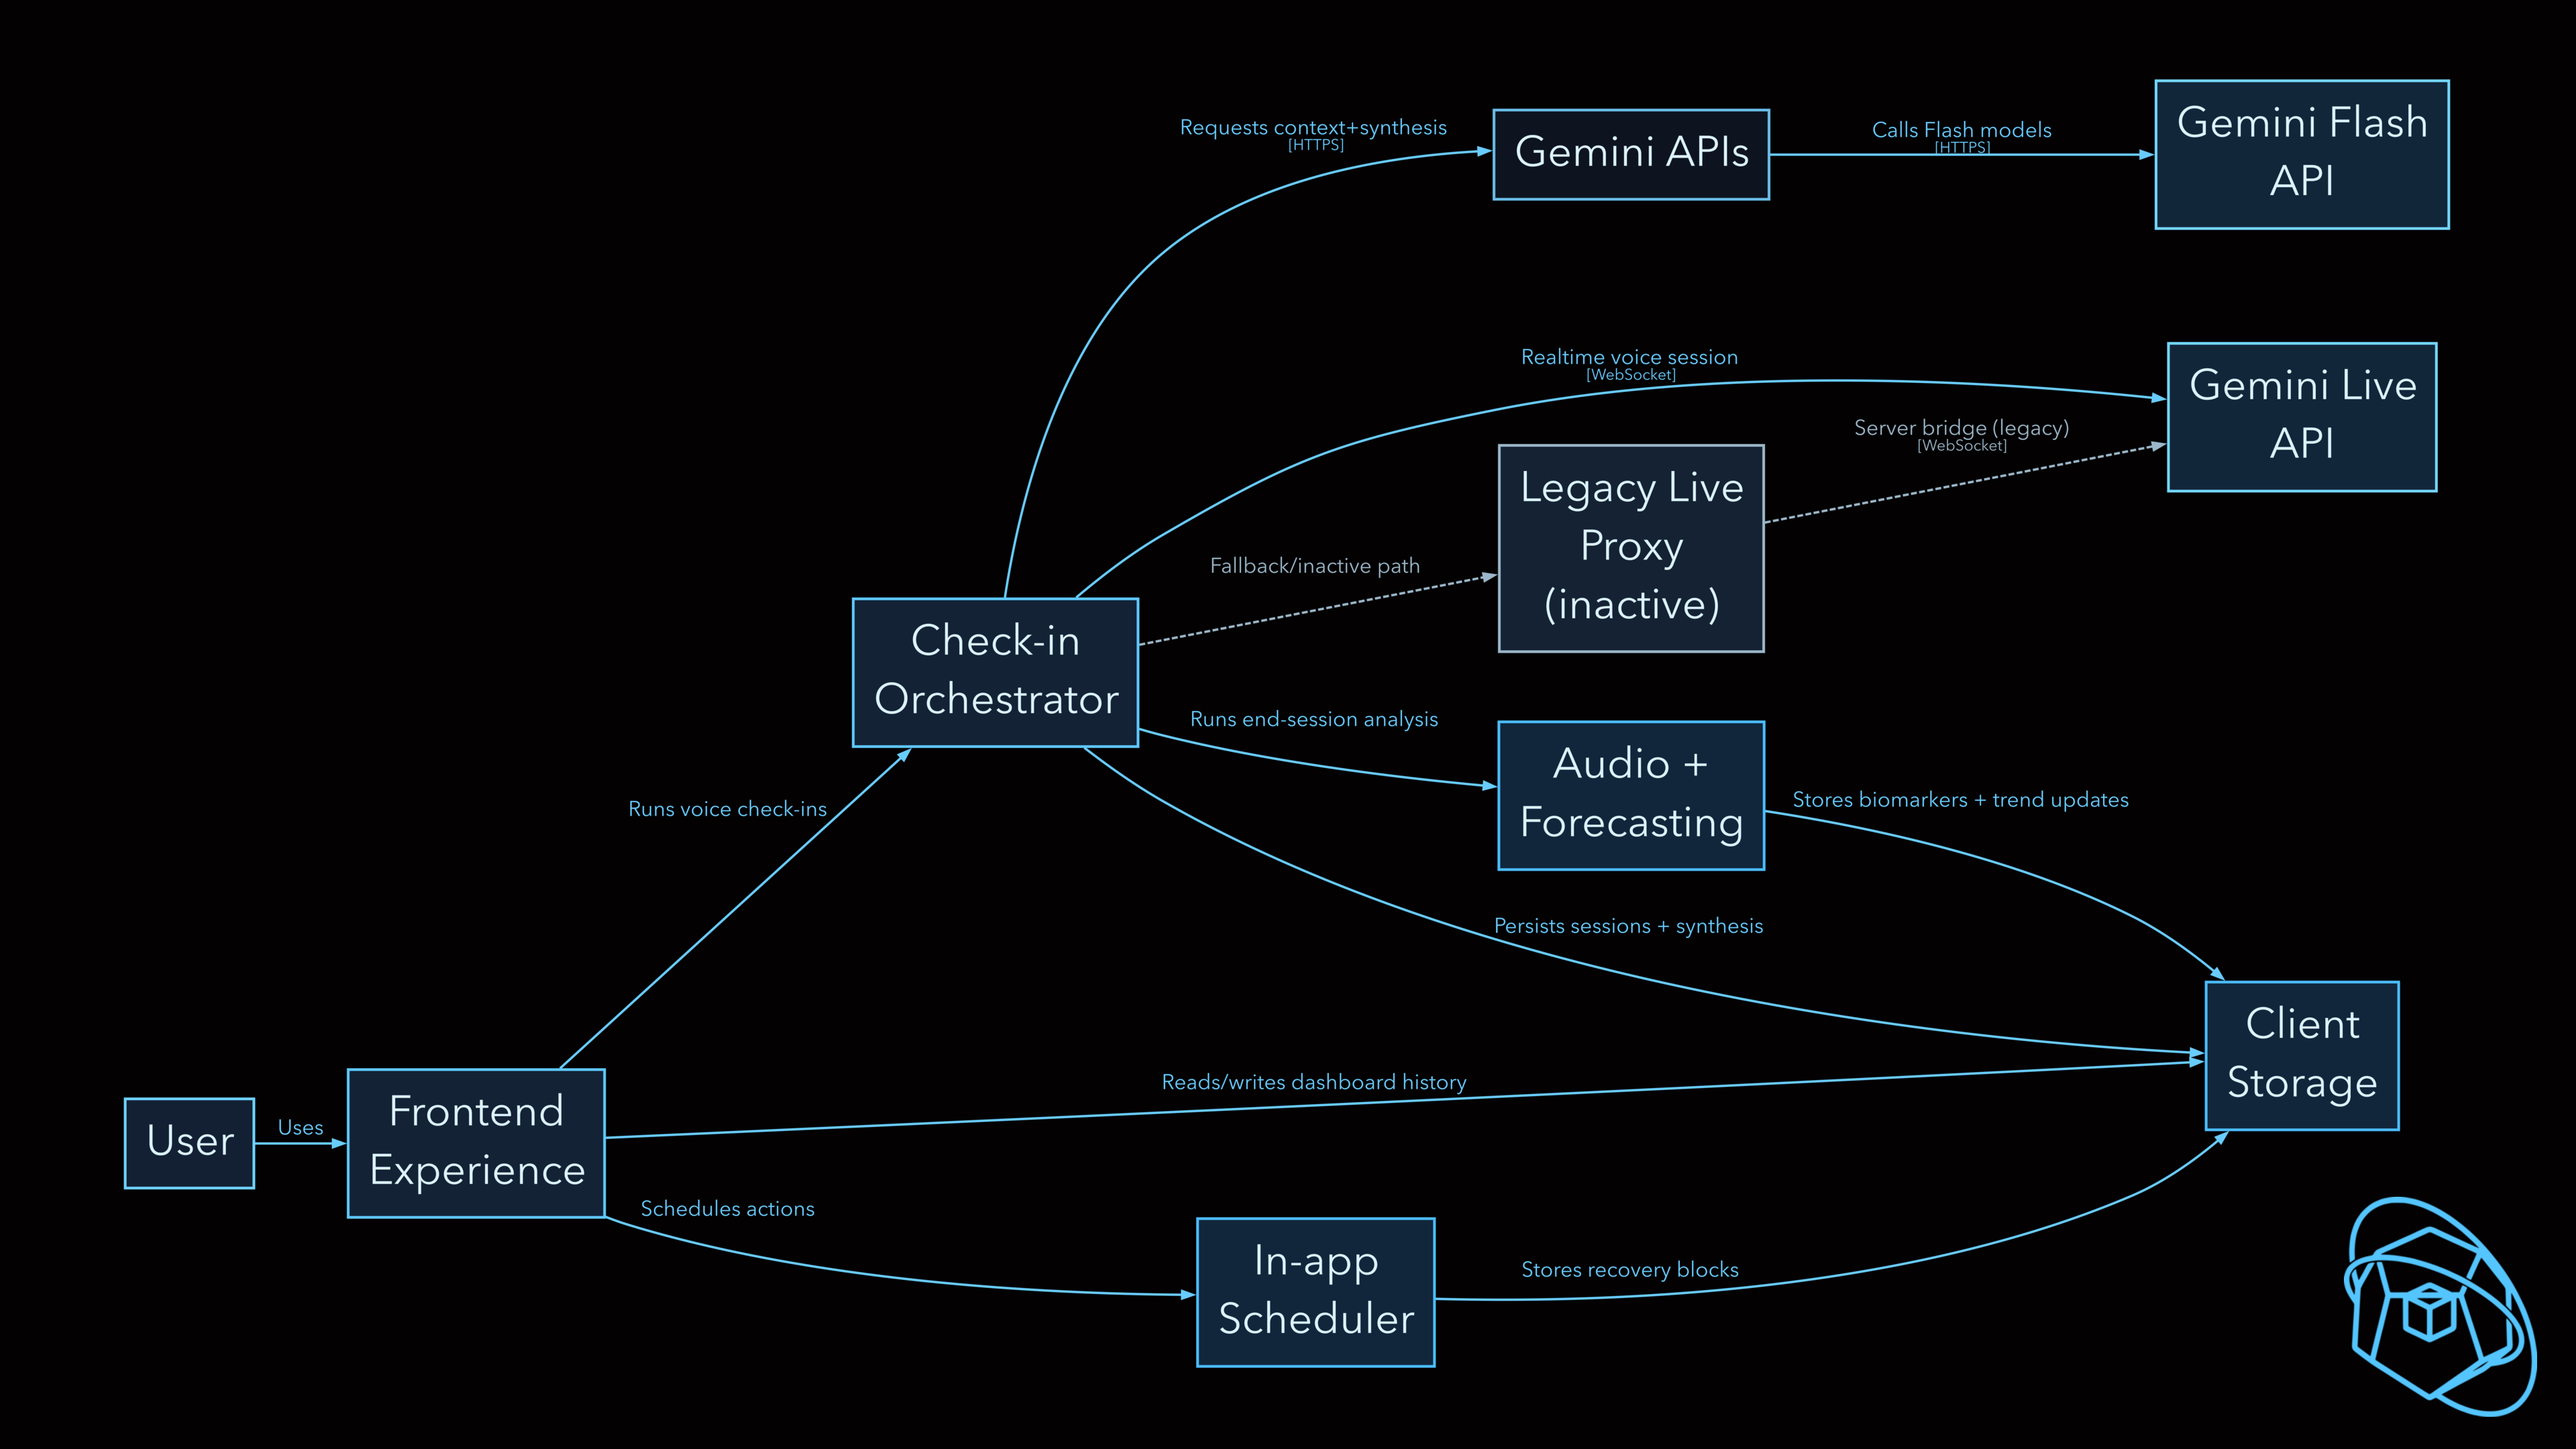
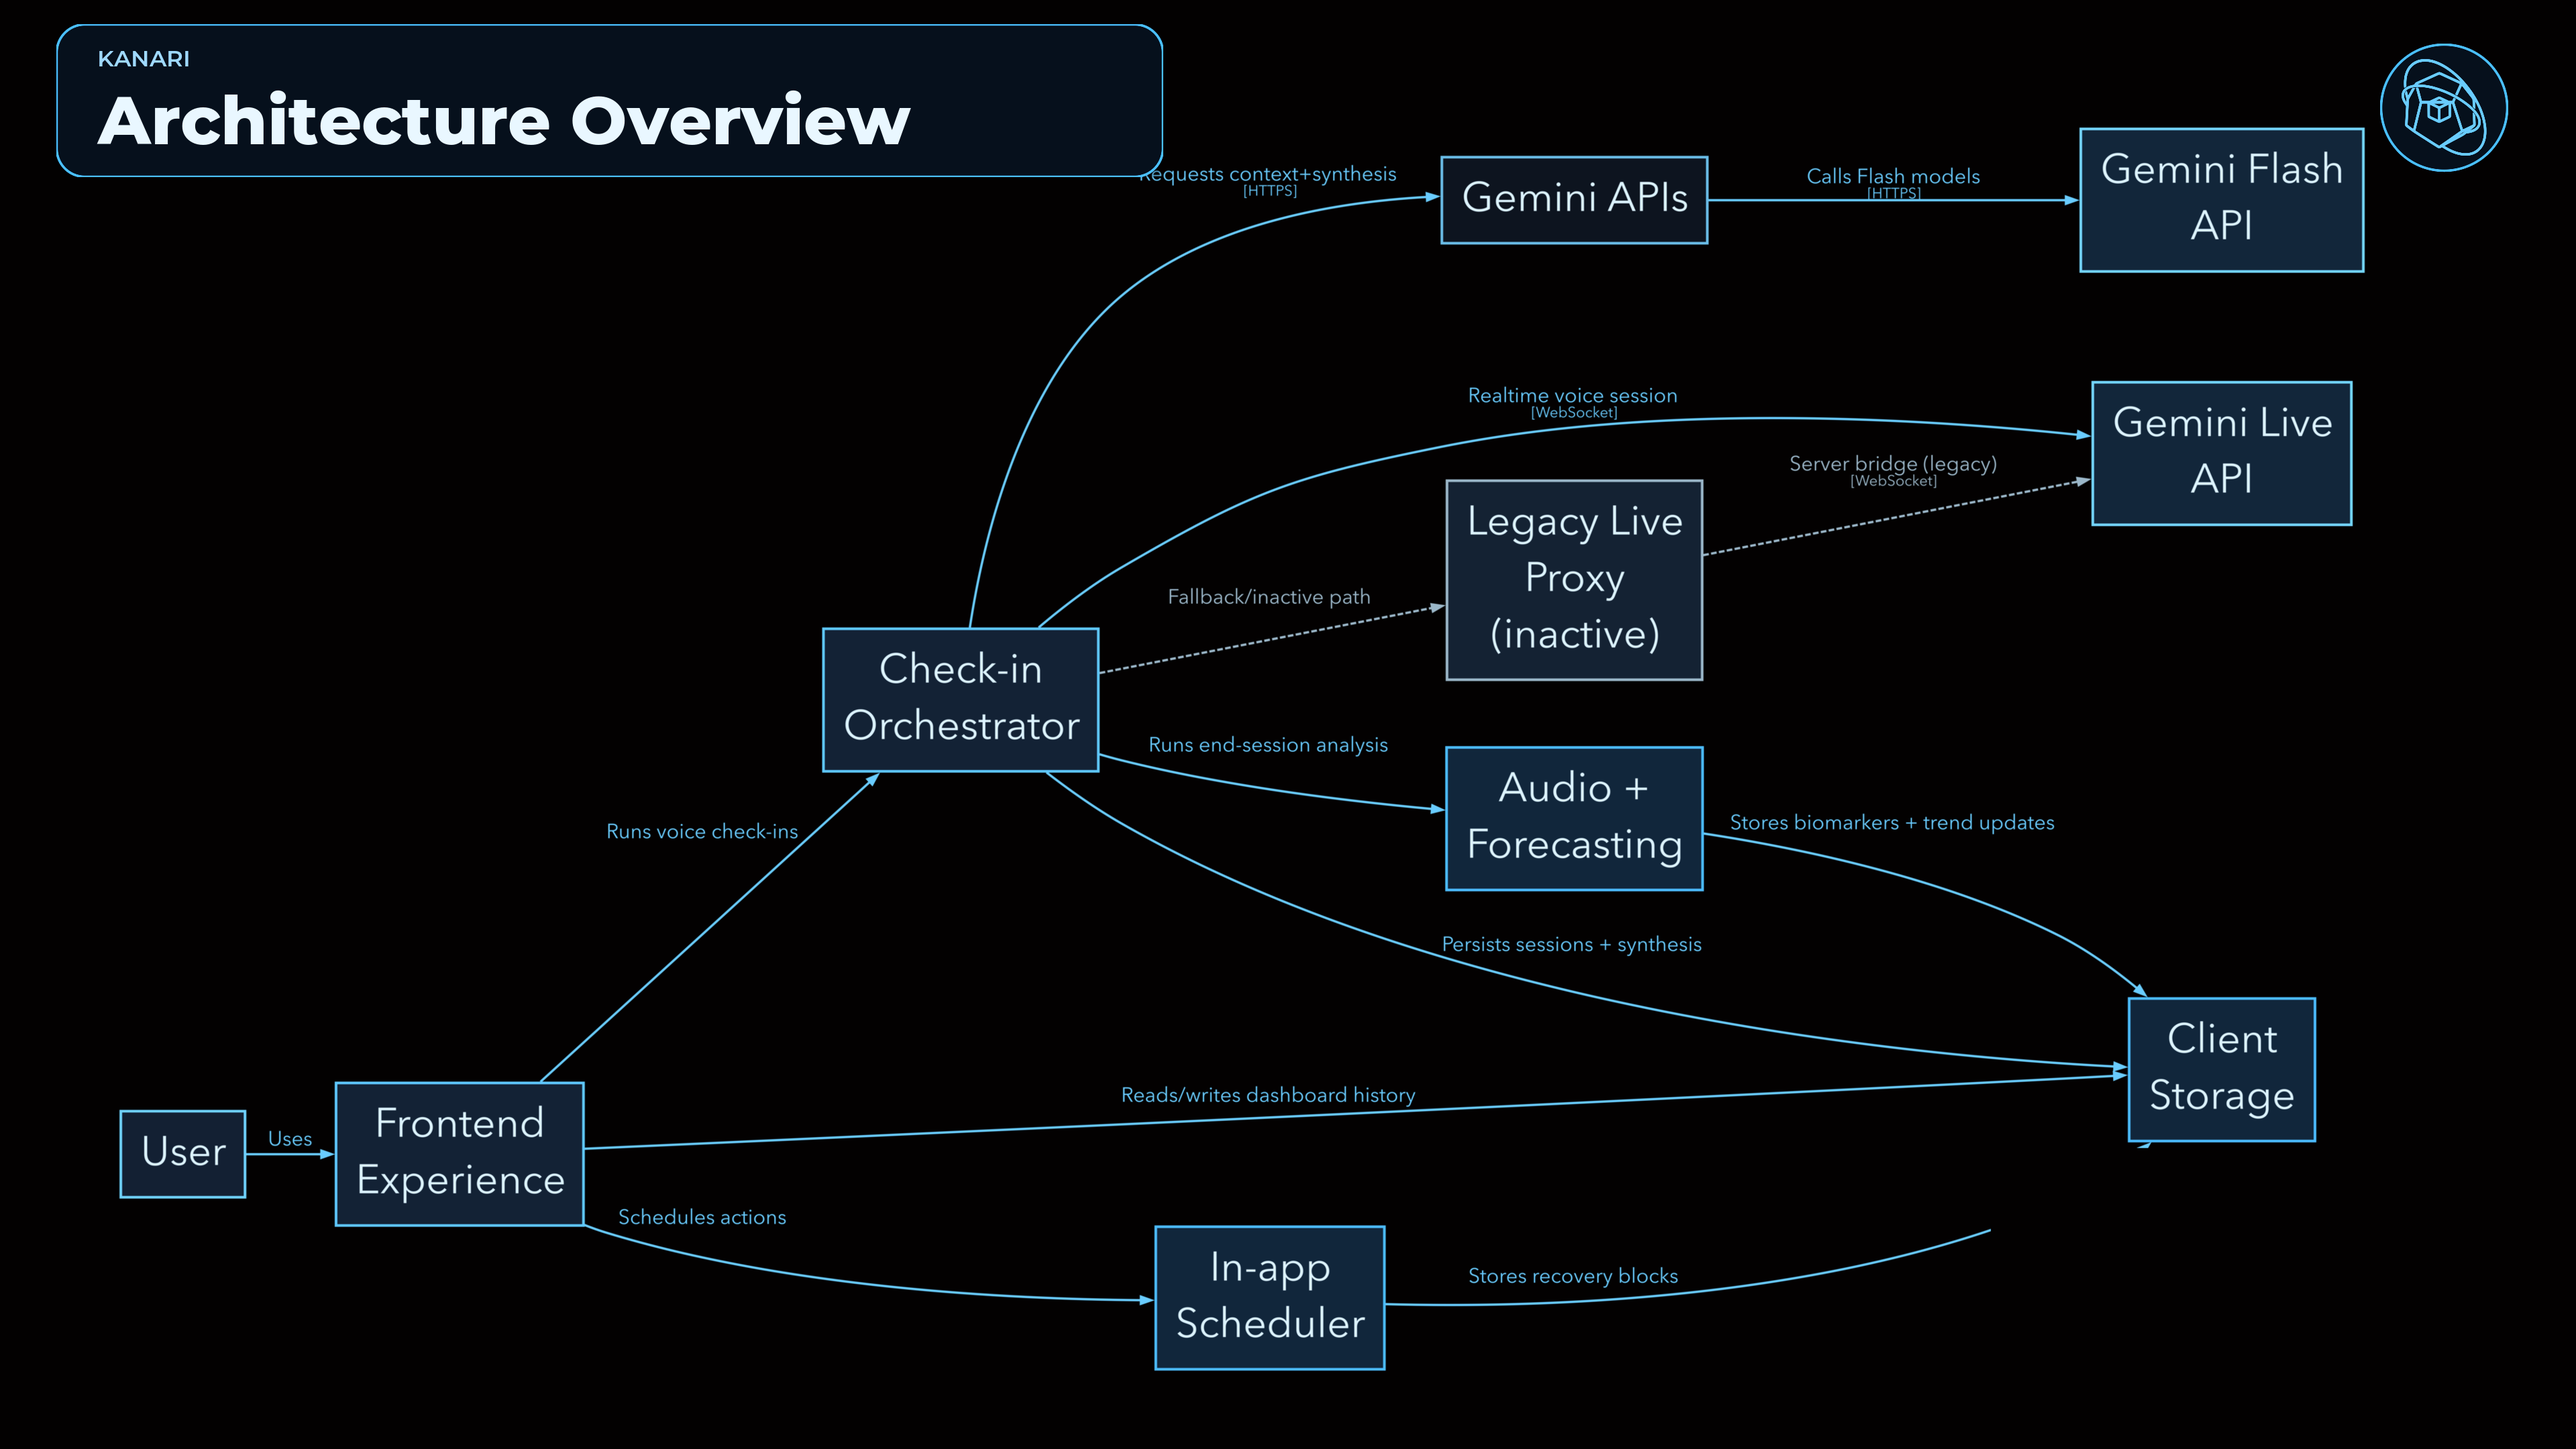
docs: refresh architecture diagrams
Add biomarker pipeline diagram and update README architecture section; standardize title treatment and logo placement across diagrams and remove duplicate watermark.

diff --git a/README.md b/README.md
@@ -58,13 +58,38 @@ This is not medical advice and it does not diagnose burnout.
 
 ---
 
+## Architecture
+
+### 1) End-to-End System Overview
+
+[![Kanari end-to-end architecture diagram (dark theme)](readmestuff/kanari-architecture-dark.png)](readmestuff/kanari-architecture-dark-4k.png)
+
+This diagram shows the full flow across frontend routes, hooks orchestration, local storage, server routes, Gemini integration, forecasting, and scheduling.
+
+### 2) Gemini Model Architecture (Hackathon Focus)
+
+[![Kanari Gemini model architecture diagram (dark theme)](readmestuff/kanari-gemini-model-architecture-dark.png)](readmestuff/kanari-gemini-model-architecture-dark-4k.png)
+
+Model usage in Kanari:
+- **`gemini-3-flash-preview`**: Primary non-audio runtime model (context, synthesis, suggestions, semantic analysis, achievements, summarize-thinking)
+- **`gemini-2.5-flash-native-audio-preview-12-2025`**: Real-time bidirectional voice conversation (Gemini Live WebSocket)
+- **`gemini-2.5-flash-preview-tts`**: Offline voice sample generation script (`scripts/generate-voice-samples.ts`)
+
+### 3) Biomarker Pipeline (Deep Dive)
+
+[![Kanari biomarker architecture diagram (dark theme)](readmestuff/kanari-biomarker-architecture-dark.png)](readmestuff/kanari-biomarker-architecture-dark-4k.png)
+
+This diagram goes deep into the biomarker path: mic capture -> feature extraction -> acoustic scoring -> personalization/calibration -> semantic fusion -> trend aggregation -> burnout forecasting.
+
+---
+
 ## Tech Stack
 
 | Category | Technologies |
 |----------|-------------|
 | Frontend | Next.js 16, React 19, Tailwind CSS 4, Framer Motion |
 | Audio | Web Audio API, Meyda, @ricky0123/vad-web |
-| AI | Gemini 3 Flash (REST), Gemini Live (WebSocket) |
+| AI | Gemini 3 Flash (REST), Gemini 2.5 Flash Native Audio (Live WebSocket) |
 | Storage | IndexedDB (Dexie), Web Crypto API |
 | Integration | Local calendar scheduler |
 
@@ -99,11 +124,11 @@ All acoustic analysis (speech rate, spectral features, pause patterns) happens l
 
 Built for the **Google DeepMind Gemini 3 Hackathon** (Dec 2025 - Feb 2026).
 
-Uses Gemini 3 Flash for:
-- Real-time voice conversations (Gemini Live WebSocket)
-- Burnout risk prediction and forecasting
-- Personalized recovery suggestion generation
-- Check-in synthesis and journaling
+Gemini usage for this submission:
+- **Gemini 3 Flash** (`gemini-3-flash-preview`) for non-audio runtime intelligence (check-in context, synthesis, suggestions, semantic analysis, achievements, and summarize-thinking)
+- **Gemini 2.5 Flash Native Audio** (`gemini-2.5-flash-native-audio-preview-12-2025`) for real-time voice conversations via Gemini Live
+
+Note: burnout forecasting itself is computed locally from biomarker trends (heuristic trend analysis), not by an LLM call.
 
 ---
 
